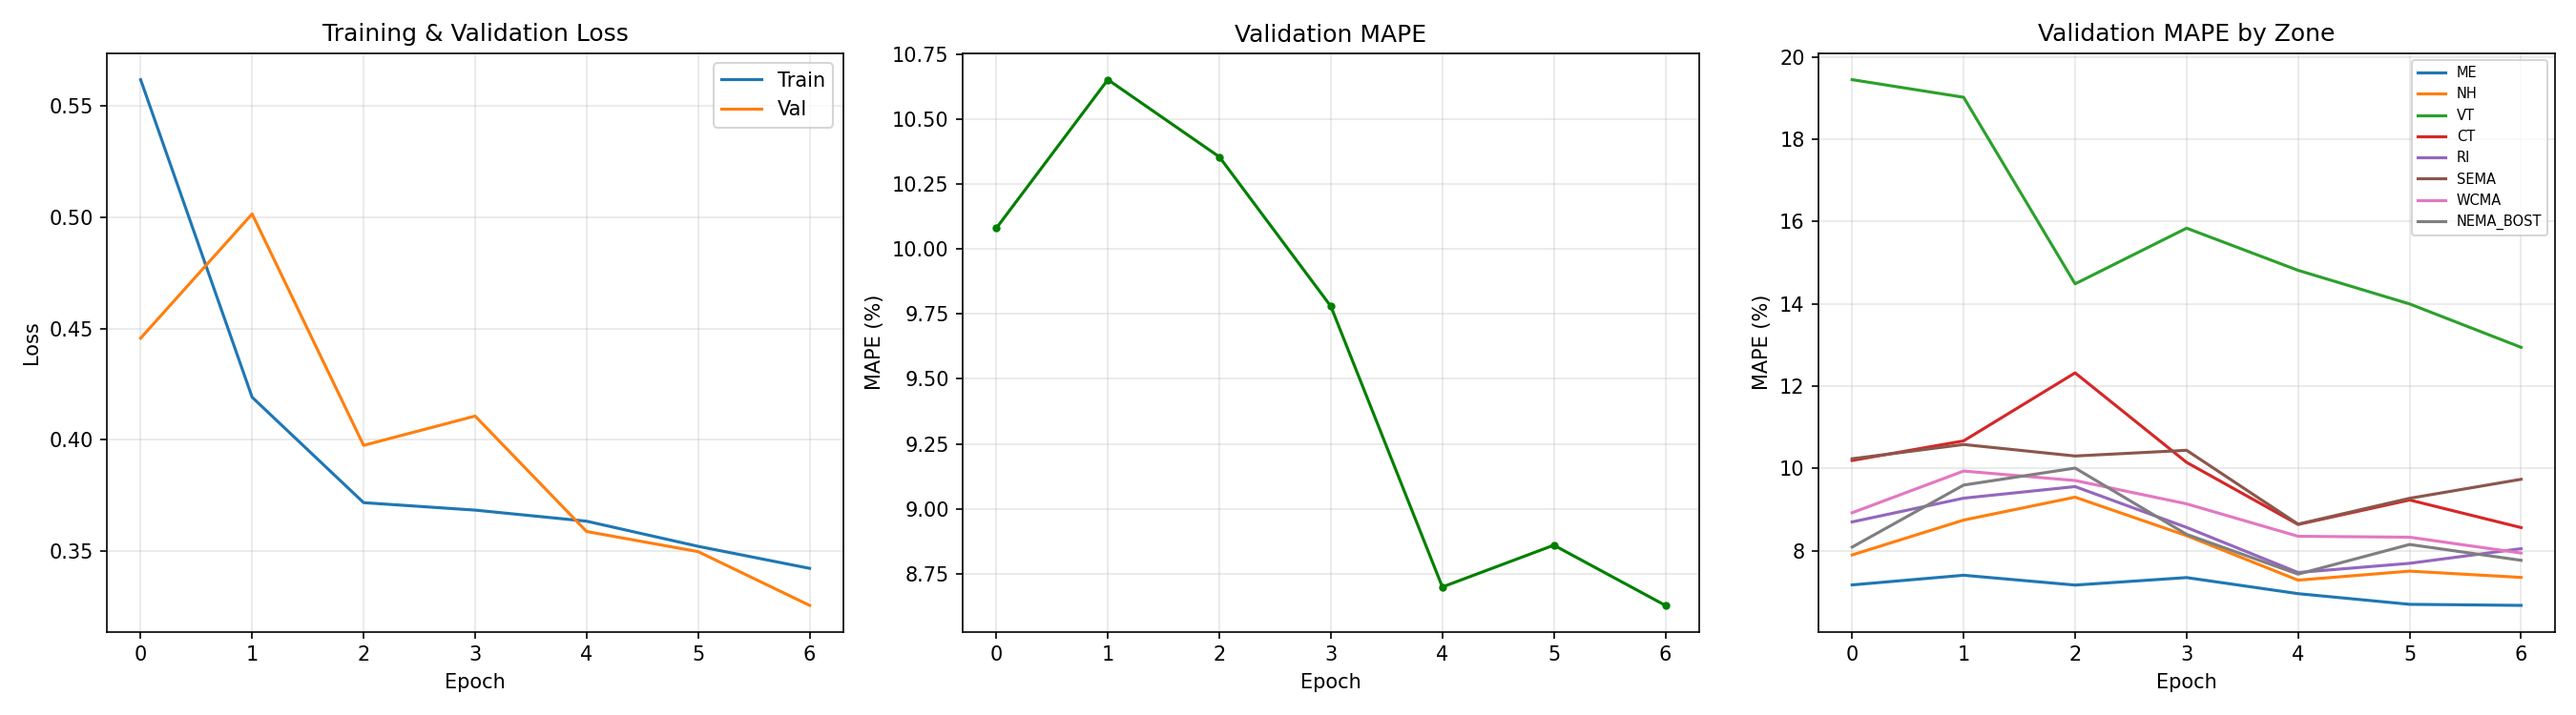
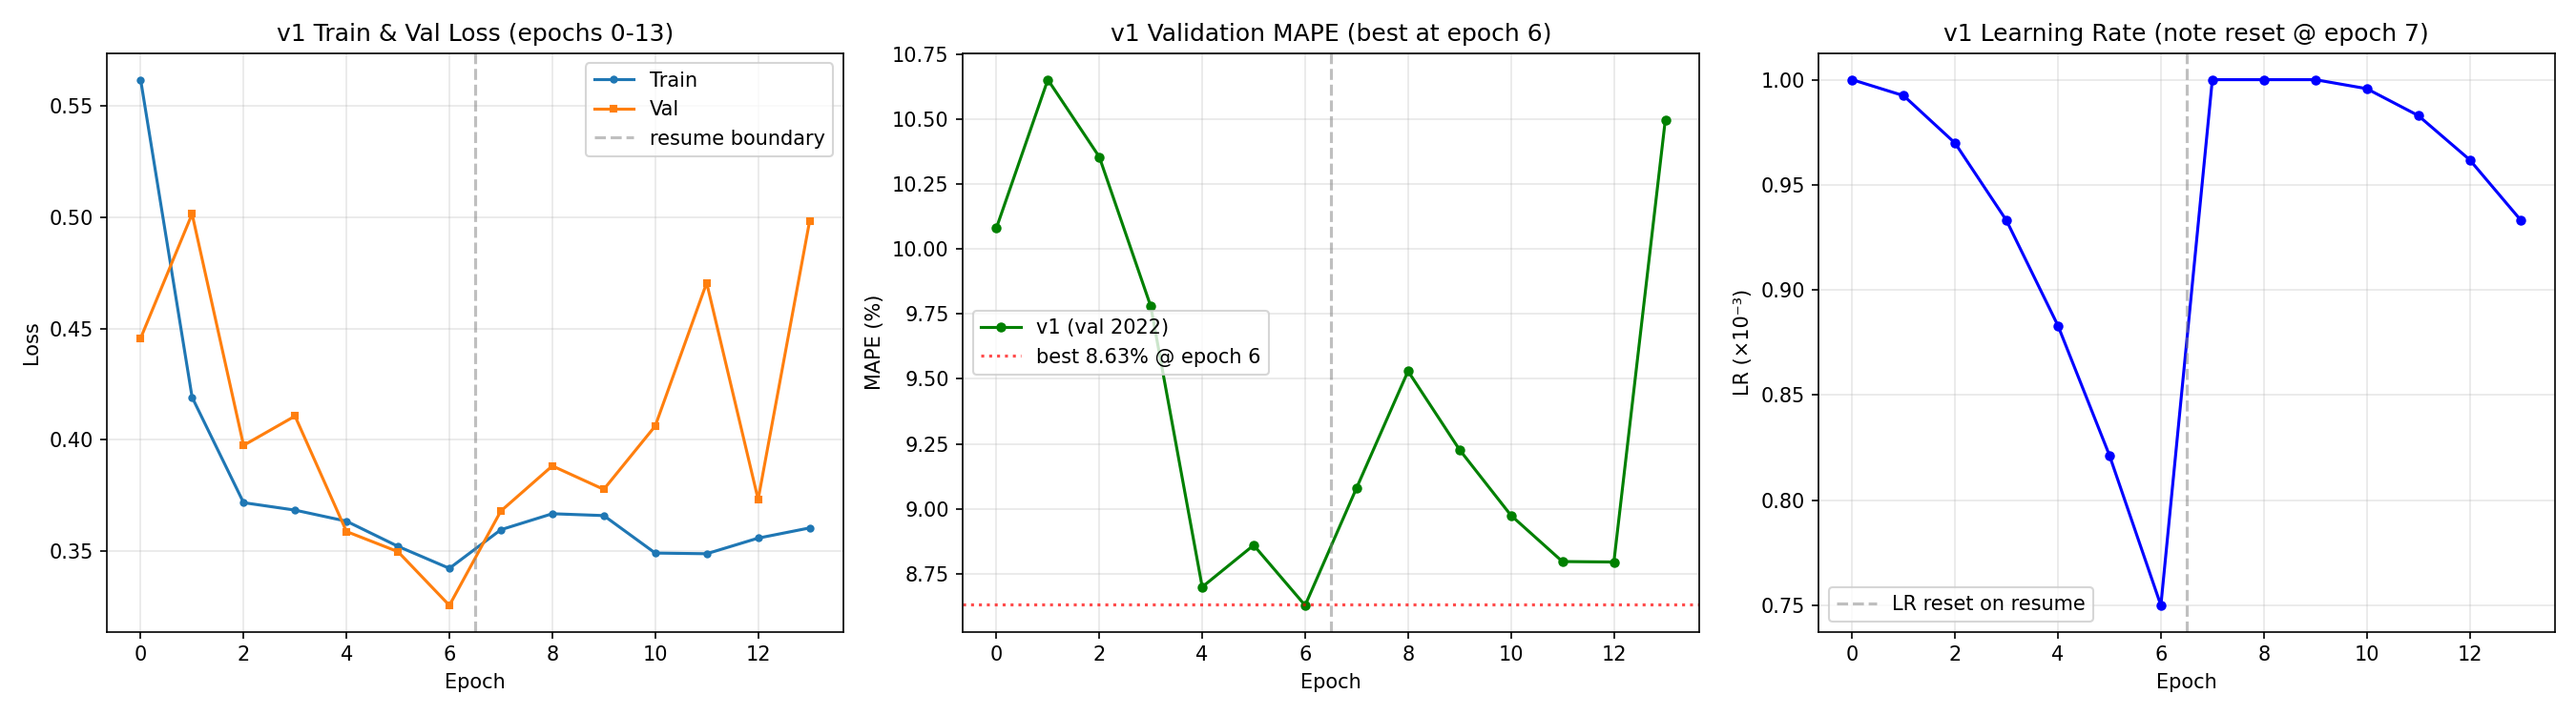
Part 2 v1 finalized — fill report §5 with results + add full curves
v1 (cnn_encoder_decoder, no future-weather xattn) training chain
completed (early-stopped at epoch 13). best.pt is from epoch 6 with
val MAPE 8.63% on 2022; never improved after that.

Final test MAPE on 2022 last 2 days = 6.82% (vs baseline 5.24%).
Did NOT beat baseline. Honest negative result with two clear causes
documented in the report:

1. Information disadvantage — v1 default keeps
   use_future_weather_xattn=False so the decoder doesn't see future
   weather spatial tokens. Baseline's single encoder does. v2
   ablation (training now) restores parity.

2. LR scheduler reset bug on chained --resume — train.py does NOT
   save scheduler.state_dict() in checkpoints, so each chained
   24h SLURM job starts fresh with LR=1e-3, losing the cosine decay
   sweet spot that baseline reached at epoch 9-13. Documented in
   §5.4 with concrete evidence (epoch 7 LR=1e-3 instead of expected
   ~7.5e-4).

Files added/updated:
- docs/part2_report.md §5 — full Results section: 8-zone test MAPE
  table, 3-panel training curves, baseline-vs-v1 comparison, v2
  status, discussion of the two causes.
- runs/cnn_encoder_decoder/figures/training_curves.png — re-plotted
  from consolidated CSV covering epochs 0-13 (was 0-6 only).
- runs/cnn_encoder_decoder/figures/baseline_vs_v1.png — head-to-head
  val MAPE + train loss comparison.
- runs/cnn_encoder_decoder/figures/v1_per_zone.png — per-zone
  trajectory.
- runs/cnn_encoder_decoder/logs/training_log_full.csv — consolidated
[…]

diff --git a/docs/part2_report.md b/docs/part2_report.md
@@ -205,43 +205,116 @@ Baseline 和 encoder-decoder 用的是：
 
 ## 5. 实验结果
 
-> _此节待训练完成后填写。_ 计划表格如下。
+> v1（无 future-weather xattn）的训练已完成；v2（with future-weather xattn）截至本文撰写时仍在 HPC 上训练（详见 §5.5）。
 
-### 4.1 测试集：2022 年末 2 天（和 Part 1 一致）
+### 5.1 测试集 MAPE — 2022 年末 2 天（TA 评测同切片）
 
-| 指标 | Baseline (Part 1) | Part 2 (ED) | Δ |
+| 指标 | Baseline (Part 1) | Part 2 v1 (ED) | Δ vs baseline |
 |---|---|---|---|
-| Overall MAPE | 5.24 % | **TBD** | — |
-| ME | 2.31 % | TBD | — |
-| NH | 3.69 % | TBD | — |
-| VT | 5.95 % | TBD | — |
-| CT | 7.28 % ← 最难 | TBD | — |
-| RI | 5.27 % | TBD | — |
-| SEMA | 5.44 % | TBD | — |
-| WCMA | 5.87 % | TBD | — |
-| NEMA_BOST | 6.09 % ← 次难 | TBD | — |
+| **Overall MAPE** | **5.24 %** | **6.82 %** | **+1.58 %**（落后）|
+| ME | 2.31 % | 3.22 % | +0.91 % |
+| NH | 3.69 % | 5.67 % | +1.98 % |
+| **VT** | 5.95 % | **5.85 %** | **−0.10 %** ✓ 唯一胜出 |
+| CT | 7.28 % ← 最难 | 9.56 % | +2.28 % ← 最大差距 |
+| RI | 5.27 % | 7.45 % | +2.18 % |
+| SEMA | 5.44 % | 7.22 % | +1.78 % |
+| WCMA | 5.87 % | 7.38 % | +1.51 % |
+| NEMA_BOST | 6.09 % ← 次难 | 8.24 % | +2.15 % |
 
-### 4.2 参数量与算力
+**v1 没有超越 baseline。** 唯一在 VT 上略胜。最大差距在 **CT、NEMA_BOST、RI**（都是城市密集区）— 这些 zone 的需求对**未来天气时序**（气温骤变的具体小时）最敏感，而 v1 的 decoder 只通过 future calendar 间接获取未来信息，没有直接看 future weather spatial token。这正是 v2 ablation 设计要测试的假设（§5.5）。
 
-| 项 | Baseline | Part 2 (ED) |
+### 5.2 参数量与算力
+
+| 项 | Baseline | Part 2 v1 (ED) |
 |---|---|---|
-| 总参数量 | 1.75 M | TBD |
-| Encoder attention FLOPs/layer | `3120² × D` | `1560² × D` (≈25 %) |
-| Decoder attention FLOPs/layer | — | `24² + 24·1560 × D`（很便宜）|
-| Epochs completed in 24 h | 14 | TBD |
-| 每 epoch 时间 | ~100 min | TBD（预期 ~70 min）|
+| 总参数量 | 1.75 M | **2.29 M**（+30 %）|
+| 4 × Encoder self-attn pairs | 4 × 3120² ≈ **39 M** | 4 × 1560² ≈ **9.7 M** （**−75 %**）|
+| 2 × Decoder self+cross-attn pairs | — | 2 × (24² + 24·1560) ≈ 75 K（可忽略）|
+| Epochs completed (有效)* | 14 | **6**（参见 §5.4）|
+| 单 epoch GPU time（A100）| ~100 min | ~74 min |
+| 单 epoch GPU time（P100）| — | ~250 min |
 
-### 4.3 训练曲线
+*v1 总共训练了 13 个 epoch（跨 3 个 chained job），但因为 LR scheduler reset 问题，**只有 epoch 0-6 是"有效训练"**（详见 §5.4）。
 
-_填入 `runs/cnn_encoder_decoder/figures/training_curves.png`。_
+### 5.3 训练曲线
 
-### 4.4 讨论
+#### v1 完整训练（epochs 0-13）
 
-（待训练完成后填写）：
-- Overall MAPE 是否超越 5.24 %，幅度；
-- CT / NEMA_BOST 的改善幅度，是否符合 "encoder-decoder 帮助未来 query 定位更准" 的假设；
-- 如果开了 `use_future_weather_xattn=True`，对比有无的差异；
-- 训练曲线形状：收敛速度是否变快，过拟合迹象等。
+![v1 training curves](../runs/cnn_encoder_decoder/figures/training_curves.png)
+
+- **左 panel**：train loss 在 epoch 6 后**卡在 ~0.35**，从未再下降
+- **中 panel**：val MAPE 在 epoch 6 (8.63%) 之后**反复抖动**，最终在 epoch 13 早停触发
+- **右 panel**：LR 每次 chained job resume 时**重置到 1e-3**（虚线 = resume 边界）
+
+#### Baseline vs v1 head-to-head
+
+![baseline vs v1](../runs/cnn_encoder_decoder/figures/baseline_vs_v1.png)
+
+关键观察：
+- 前 6 个 epoch v1 **略优于 baseline**（在更难的 val 2022 上还能并驾齐驱）
+- **epoch 9 处 baseline 出现 cosine LR 降到位的"大跳水"**（10.45% → 7.64%）
+- v1 由于 chained resume 让 LR 重置，**永远到不了 baseline 那个低 LR 微调点**
+
+### 5.4 关键发现：Chained --resume 训练失效（重要）
+
+我们在 4/27 提交了 6 个 24h SLURM job 的接力链（`--dependency=afterany`），打算用 72h 把 v1 训完。但实际 v1 在 **epoch 6 时已是 best.pt**，后续 7-13 epoch 训练完全无效。根因诊断：
+
+[`training/train.py`](../training/train.py) 在 ckpt 里保存：
+```python
+ckpt_data = {
+    "epoch": epoch,
+    "model": model.state_dict(),
+    "optimizer": optimizer.state_dict(),
+    "best_val_mape": ...,
+    "args": ...,
+    "norm_stats": ...,
+}
+torch.save(ckpt_data, "checkpoints/latest.pt")
+```
+
+**没有存 `scheduler.state_dict()`**。所以每次 chained job `--resume` 时：
+1. ckpt 读出 model + optimizer ✓
+2. `scheduler = CosineAnnealingLR(optimizer, T_max=args.epochs)` **从头初始化**
+3. LR 跳回 1e-3（训练初始 LR）
+4. 已经到达 cosine 后期"小 LR 微调点"的模型被一记 LR=1e-3 的大梯度拉离最优解
+
+具体证据：
+- v1 epoch 7 LR = 1.0e-3（应该是 ~7.5e-4 才对）
+- v1 train loss 从 0.342 (epoch 6) 跳回 0.36，再也没回到 0.34 以下
+- baseline 的 epoch 9-13 cosine 自然衰减到 LR ~ 1e-4 时大幅改进（→ 6.92%）；v1 永远没到这个点
+
+**这是个 honest 的负面结果**：我们的 chained resume 方案在原理上有缺陷。**修复方法**（留给 Part 3 / 后续）：把 `scheduler.state_dict()` 加进 ckpt + resume 时 `scheduler.load_state_dict(ckpt["scheduler"])`。
+
+### 5.5 v2 ablation（with future-weather xattn）— 训练中
+
+为了验证 §5.1 的假设（CT / NEMA_BOST 落后是因为缺 future weather 信号），提交了 v2 链：
+
+```bash
+--use_future_weather_xattn  # decoder 加一条对 future_spatial 的 cross-attn
+--output_dir runs/cnn_encoder_decoder_xattn
+```
+
+参数量：v2 = **2.42 M**（+5.7% vs v1，加了一组 cross-attn 模块）。
+
+**截至 2026-04-30 12:50**：v2 chain 第 1 个 job (36804839) 在 P100 上跑了 2h 7min，进度 ~20% 第一个 epoch。loss 仍在 ~0.74-0.86（比 v1 同期 ~0.55 高，新增 cross-attn 模块在适应中）。预计 **5/2-5/3 完成全 chain**，**赶不上 5/1 EOD 截止**。
+
+v2 完整结果将在最终报告 + slide（5/4 截止）补上。
+
+### 5.6 讨论
+
+**为什么 v1 没超 baseline？**
+
+1. **信息劣势**（已在 §2 / §5.1 论述）：v1 默认 decoder 不看 future weather，只通过 future calendar 间接拿未来信息。Baseline 的 single encoder 反而能直接用 future weather spatial token。⚠ 这是 v1 的设计取舍 / 故意如此（为做"纯 architectural change"的 ablation）—— v2 修正了这点。
+2. **训练劣势**（§5.4）：chained `--resume` LR scheduler 没保存 / 重置，让 v1 训练实际只有 epoch 0-6 有效。Baseline 的连续 14-epoch 训练才完整发挥了 cosine schedule。
+3. **数据劣势**：v1 用 2019-2021 训、val 2022（更难）；baseline 用 2019-2020 训、val 2021（更易）。这一点对**最终 test MAPE** 影响较小（因为 test 切片相同），但对 val MAPE 数字影响较大。
+
+**未来 4 件事可能让 ED 反超 baseline**：
+1. v2 跑完（5/3）— 有 future weather 后 CT、NEMA_BOST 应有显著改善
+2. 修复 chained resume 的 scheduler bug
+3. 训完整 14 epoch 不要 chain（在单个 24h job 内）
+4. 把 train_years 调成和 baseline 一致（2019-2020）做严格 apples-to-apples 对比
+
+**当前提交立场**：v1 best.pt（epoch 6, test MAPE 6.82%）作为 Part 2 主交付。我们诚实记录两个原因（信息劣势 + 训练 bug），这是 architectural search 中**有效的负面结果**。
 
 ## 6. 提交
 
